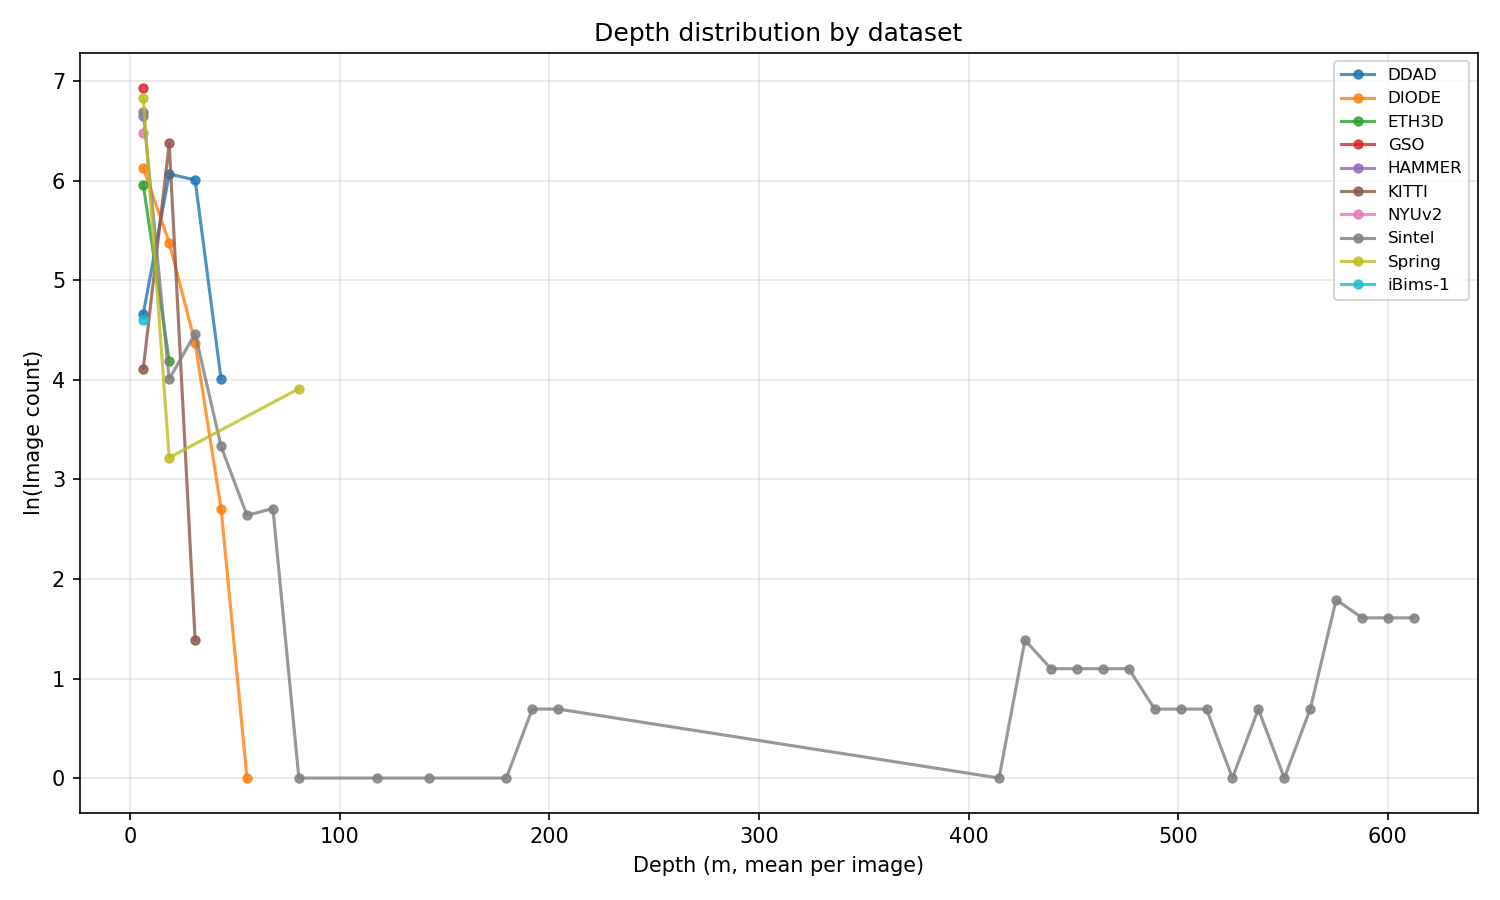
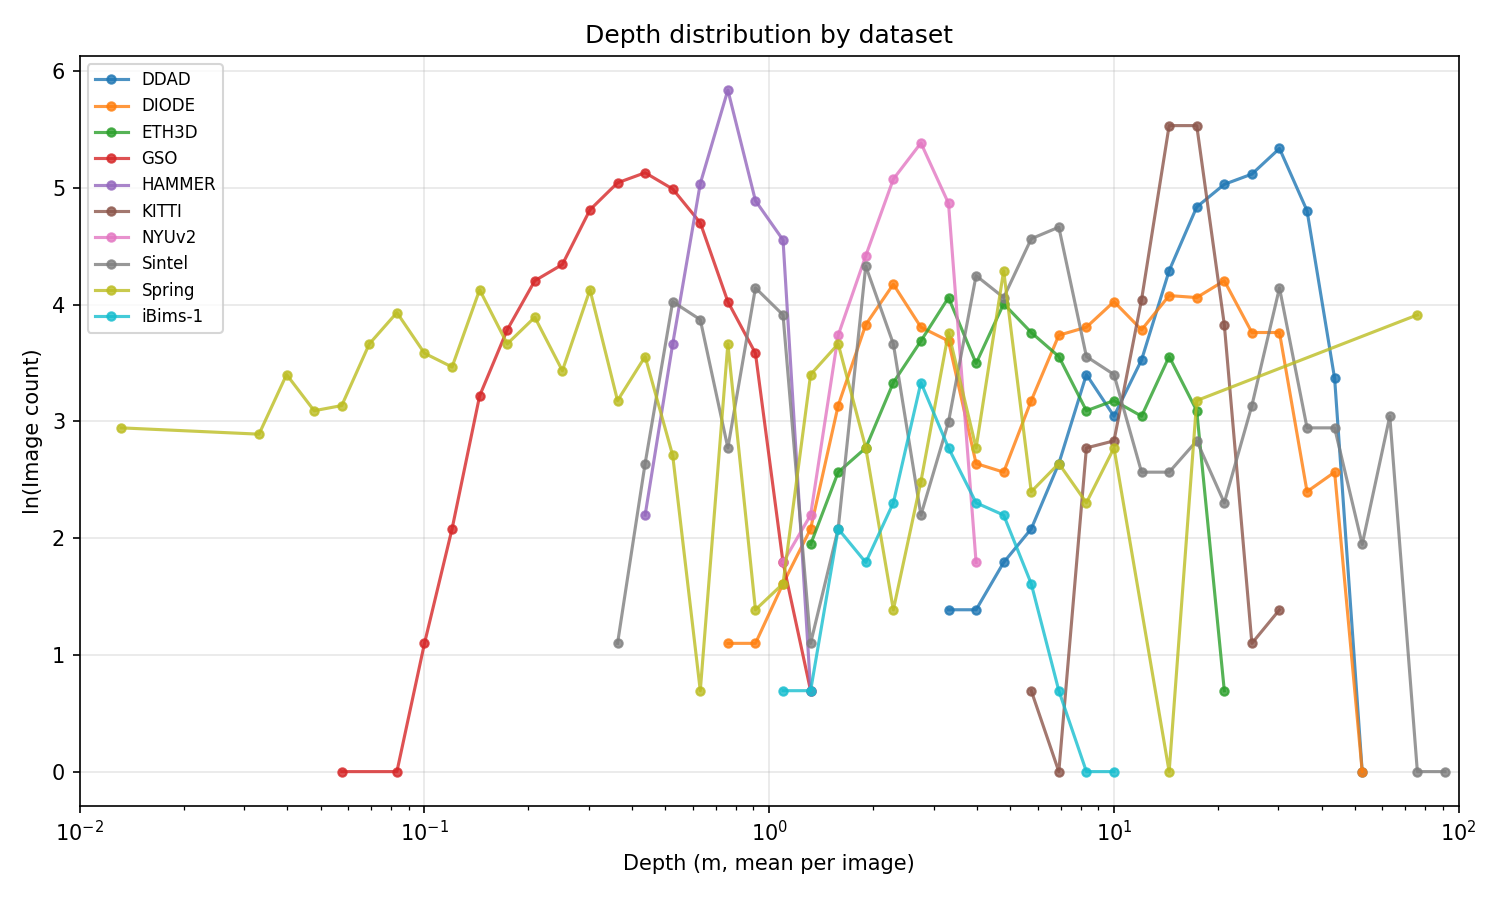
fix: bug for parallel cpu loading

diff --git a/scripts/parallel_render.py b/scripts/parallel_render.py
@@ -1,5 +1,9 @@
 #!/usr/bin/env python3
-"""多进程并行渲染：每张 GPU 渲染不同的帧范围"""
+"""多进程并行渲染：每张 GPU 渲染不同的帧范围。
+
+通过 CUDA_VISIBLE_DEVICES 限制每个子进程只看到一张 GPU，并设置 FG_GPU_IDS=0，
+使 Blender 在该卡上初始化，避免 C+G 全在 GPU 0 上。
+"""
 
 import argparse
 import json
@@ -17,7 +21,7 @@ except ImportError:
 
 
 def get_blend_info(blend_file: str, blender_exe: str) -> dict:
-    """从 .blend 文件中读取渲染信息（分辨率、采样数等）"""
+    """从 .blend 文件中读取渲染信息（分辨率、采样数等）。会启动一次 Blender，大场景可能较慢。"""
     script = '''
 import bpy
 import json
@@ -94,19 +98,17 @@ def render_worker(args: dict) -> dict:
     skip_conversion = args.get("skip_conversion", False)
     colormap = args.get("colormap", "turbo")
     use_compositor = args.get("use_compositor", True)
-    nice = args.get("nice", 0)
 
     script_dir = os.path.dirname(os.path.abspath(__file__))
     script_path = os.path.join(script_dir, "render_and_convert.py")
 
+    # 子进程只暴露一张 GPU，FG_GPU_IDS=0，使 Blender 在该卡上初始化（解决 C+G 全在 GPU 0）
     env = os.environ.copy()
     env["FG_DEVICE"] = "GPU"
     env["FG_COMPUTE_TYPE"] = compute_type
-    # 设置 CUDA_VISIBLE_DEVICES 限制进程只能看到指定的 GPU
-    # 这样初始化也会在该 GPU 上进行，而不是都在 GPU 0 上
     env["CUDA_VISIBLE_DEVICES"] = str(gpu_id)
-    # 由于 CUDA_VISIBLE_DEVICES 限制后，可见的 GPU 索引变成 0
     env["FG_GPU_IDS"] = "0"
+    env["FG_USE_COMPOSITOR"] = "1" if use_compositor else "0"
 
     cmd = [
         blender_exe,
@@ -133,10 +135,6 @@ def render_worker(args: dict) -> dict:
         cmd.extend(["--colormap", colormap])
     if not use_compositor:
         cmd.append("--no-compositor")
-
-    # 降低 Blender 进程的 CPU 优先级，减少抢占（仅 Linux/Unix 有效）
-    if nice and nice > 0 and os.name != "nt":
-        cmd = ["nice", "-n", str(nice)] + cmd
 
     print(f"[GPU {gpu_id}] 开始渲染帧 {frame_start}-{frame_end}")
     sys.stdout.flush()
@@ -273,13 +271,7 @@ def parallel_render(
     blender_exe: str = None,
     use_compositor: bool = True,
 ):
-    """多 GPU 并行渲染
-    
-    GPU 选择优先级：
-    1. --gpu-ids 参数（最高优先级）
-    2. CUDA_VISIBLE_DEVICES 环境变量
-    3. --num-gpus 参数（使用 GPU 0, 1, ..., num_gpus-1）
-    """
+    """多 GPU 并行渲染。GPU 选择：--gpu-ids > CUDA_VISIBLE_DEVICES > --num-gpus。"""
     # 确定要使用的 GPU 列表
     if gpu_ids is None:
         # 尝试从环境变量获取
@@ -287,7 +279,9 @@ def parallel_render(
         if env_gpus is not None:
             gpu_ids = env_gpus
             print(f"从 CUDA_VISIBLE_DEVICES 检测到 GPU: {gpu_ids}")
-    
+        else:
+            gpu_ids = list(range(num_gpus))
+
     if blender_exe is None:
         blender_exe = find_blender_executable()
         if blender_exe is None:
@@ -303,10 +297,9 @@ def parallel_render(
 
     os.makedirs(output_dir, exist_ok=True)
 
-    # 获取 .blend 文件信息
     print("正在读取场景信息...")
     blend_info = get_blend_info(blend_file, blender_exe)
-    
+
     # 使用命令行参数覆盖或使用 .blend 文件中的值
     render_width = width if width else blend_info.get("width", "未知")
     render_height = height if height else blend_info.get("height", "未知")
@@ -437,11 +430,9 @@ def main():
     parser.add_argument("--colormap", default="turbo", help="PNG colormap")
     parser.add_argument("--blender", help="Blender 可执行文件路径")
     parser.add_argument("--no-compositor", action="store_true",
-                        help="自动创建合成器节点，不依赖用户预先配置的合成器（默认：使用用户预先配置的合成器）")
+                        help="不依赖用户预先配置的合成器，自动创建节点")
 
     args = parser.parse_args()
-    
-    # 解析 gpu_ids
     gpu_ids = None
     if args.gpu_ids:
         gpu_ids = [int(x.strip()) for x in args.gpu_ids.split(",")]

diff --git a/scripts/render.py b/scripts/render.py
@@ -52,11 +52,14 @@ def apply_render_device(device: str | None, compute_type: str | None = None,
         
         bpy.context.scene.cycles.device = "GPU"
 
+        # 将无效的 compute_type 视为未指定，走自动检测
+        if compute_type in ("NONE", ""):
+            compute_type = None
+
         try:
             cycles_prefs = bpy.context.preferences.addons.get("cycles")
             if not cycles_prefs:
-                if verbose:
-                    print("  警告: 未找到 Cycles 插件，无法配置 GPU")
+                print("  错误: 未找到 Cycles 插件，无法使用 GPU，已回退到 CPU（会导致 CPU 占满）", file=sys.stderr)
                 bpy.context.scene.cycles.device = "CPU"
                 return
 
@@ -82,8 +85,7 @@ def apply_render_device(device: str | None, compute_type: str | None = None,
                         continue
 
             if not compute_type:
-                if verbose:
-                    print("  警告: 未找到可用的 GPU 计算设备，将使用 CPU")
+                print("  错误: 未找到可用的 GPU 计算设备（请检查驱动/CUDA/Blender 是否支持 GPU），已回退到 CPU（会导致 CPU 占满）", file=sys.stderr)
                 bpy.context.scene.cycles.device = "CPU"
                 return
 
@@ -120,13 +122,11 @@ def apply_render_device(device: str | None, compute_type: str | None = None,
                     for gpu_name in enabled_gpus:
                         print(f"    - {gpu_name}")
             else:
-                if verbose:
-                    print(f"  警告: 未启用任何 GPU 设备，将使用 CPU")
+                print(f"  错误: 未启用任何 GPU 设备（gpu_ids 或设备列表异常），已回退到 CPU（会导致 CPU 占满）", file=sys.stderr)
                 bpy.context.scene.cycles.device = "CPU"
 
         except Exception as e:
-            if verbose:
-                print(f"  警告: GPU 配置失败: {e}，将使用 CPU")
+            print(f"  错误: GPU 配置失败: {e}，已回退到 CPU（会导致 CPU 占满）", file=sys.stderr)
             bpy.context.scene.cycles.device = "CPU"
 
 
@@ -482,6 +482,12 @@ def render_frames_direct(blend_path: str, output_dir: str,
         gpu_ids,
     )
 
+    # 若明确请求 GPU 但实际落到 CPU，直接失败，避免多进程把 CPU 拖死
+    if os.environ.get("FG_DEVICE", "").upper() == "GPU" and getattr(scene.cycles, "device", "CPU") == "CPU":
+        print("  错误: 已请求 GPU 渲染但未成功使用 GPU（见上方错误），当前为 CPU 渲染，已退出。", file=sys.stderr)
+        sys.stderr.flush()
+        sys.exit(1)
+
     # 始终输出关键信息（不受 verbose 控制）
     print(f"  渲染引擎: {scene.render.engine}")
     device_info = get_render_device_info()
@@ -729,6 +735,12 @@ def render_frames(blend_path: str, output_dir: str,
         os.environ.get("FG_COMPUTE_TYPE"),
         gpu_ids,
     )
+
+    # 若明确请求 GPU 但实际落到 CPU，直接失败，避免多进程把 CPU 拖死
+    if os.environ.get("FG_DEVICE", "").upper() == "GPU" and getattr(scene.cycles, "device", "CPU") == "CPU":
+        print("  错误: 已请求 GPU 渲染但未成功使用 GPU（见上方错误），当前为 CPU 渲染，已退出。", file=sys.stderr)
+        sys.stderr.flush()
+        sys.exit(1)
 
     # 始终输出关键信息（不受 verbose 控制）
     print(f"  渲染引擎: {scene.render.engine}")

diff --git a/tools/scan_depth_distribution.py b/tools/scan_depth_distribution.py
@@ -232,19 +232,16 @@ def main():
         except ImportError:
             print("\n未安装 matplotlib，无法绘图。可执行: pip install matplotlib")
         else:
-            all_depths = [r[4] for r in results]  # 用 depth_mean 做分布
-            d_min_plot = min(all_depths)
-            d_max_plot = max(all_depths)
-            if args.depth_max is not None:
-                d_max_plot = min(d_max_plot, args.depth_max)
-            bins = np.linspace(d_min_plot, d_max_plot, args.bins + 1)
-            bin_centers = (bins[:-1] + bins[1:]) / 2
+            # 横轴深度限制在 0.01–100 m，以 10 为底对数刻度 (10^-2 到 10^2)
+            d_min_plot = 1e-2   # 0.01 m
+            d_max_plot = 1e3   # 1000 m
+            bins = np.logspace(-3, 3, args.bins + 1)
+            bin_centers = (bins[:-1] * bins[1:]) ** 0.5
 
             dataset_depths = defaultdict(list)
             for dataset_name, _rel, _dmin, _dmax, dmean, _vr in results:
-                if args.depth_max is not None and dmean > args.depth_max:
-                    continue
-                dataset_depths[dataset_name].append(dmean)
+                if d_min_plot <= dmean <= d_max_plot:
+                    dataset_depths[dataset_name].append(dmean)
 
             fig, ax = plt.subplots(figsize=(10, 6))
             colors = plt.cm.tab10(np.linspace(0, 1, max(len(dataset_depths), 1)))
@@ -255,6 +252,8 @@ def main():
                 y_plot = np.log(hist[mask].astype(float))
                 if len(x_plot) > 0:
                     ax.plot(x_plot, y_plot, "o-", label=dataset_name, color=colors[idx % 10], alpha=0.8, markersize=4)
+            ax.set_xscale("log")
+            ax.set_xlim(d_min_plot, d_max_plot)
             ax.set_xlabel("Depth (m, mean per image)")
             ax.set_ylabel("ln(Image count)")
             ax.set_title("Depth distribution by dataset")

diff --git a/scripts/cli.py b/scripts/cli.py
@@ -130,6 +130,6 @@ def build_main_parser():
     parallel.add_argument("--colormap", default="turbo", help="PNG colormap")
     parallel.add_argument("--blender", help="Blender 可执行文件路径")
     parallel.add_argument("--no-compositor", action="store_true",
-                          help="自动创建合成器节点，不依赖用户预先配置的合成器（默认：使用用户预先配置的合成器）")
+                          help="不依赖用户预先配置的合成器，自动创建节点")
 
     return parser
